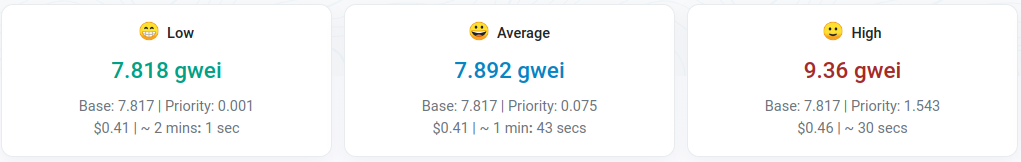
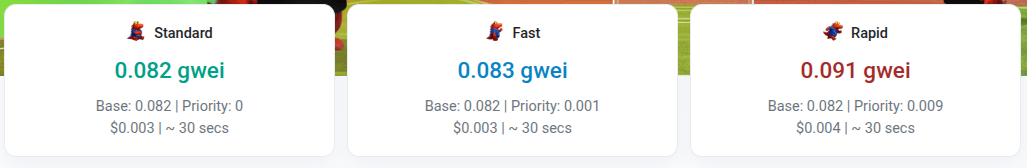
Updated Infura examples

diff --git a/Ethereum/Ethereum.tex b/Ethereum/Ethereum.tex
@@ -215,18 +215,6 @@
 
 \end{frame}
 
-\begin{frame}\frametitle{Remix: deploy an instance of the contract}
-
-  \begin{greenbox}{}
-    Remix will create for us a transaction with the \<0x0> address as destination.
-  \end{greenbox}
-
-  \begin{center}
-    \includegraphics[scale=0.4,clip=false]{pictures/deploy-faucet.png}
-  \end{center}
-
-\end{frame}
-
 \begin{frame}\frametitle{Remix: an instance of \<Faucet> has been deployed}
 
   \begin{center}
@@ -247,7 +235,7 @@
 
 \end{frame}
 
-\begin{frame}\frametitle{Send one Ether to the \<Faucet> through MetaMask}
+\begin{frame}\frametitle{Send some money to the \<Faucet> through MetaMask}
 
   This corresponds to calling the default payable function.
   
@@ -380,6 +368,8 @@ $ \alert{curl https://mainnet.infura.io/v3/05550caa054f4fec80ff...
     
 \end{greenbox}
 
+You can replace \texttt{mainnet} with \texttt{sepolia} to contact the testnet.
+
 \end{frame}
 
 \begin{frame}[fragile]\frametitle{Infura: ask for gas price}
@@ -419,24 +409,26 @@ $ \alert{echo $(({\color{black}0x16c597762}))}
   <modelVersion>4.0.0</modelVersion>
   {\color{violet}{<groupId>it.univr</groupId>
   <artifactId>it.univr.ethereumclient</artifactId>
-  <version>1.0.0</version>
+  <version>1.0.1</version>
   <name>Ethereum Client</name>}}
   {\color{red}{<properties>
     <project.build.sourceEncoding>UTF-8</project.build.sourceEncoding>
-    <maven.compiler.release>17</maven.compiler.release>
+    <maven.compiler.release>21</maven.compiler.release>
   </properties>
   <build>
-    <plugins><plugin>
+    <plugins>
+      <plugin>
         <groupId>org.apache.maven.plugins</groupId>
         <artifactId>maven-compiler-plugin</artifactId>
-        <version>3.11.0</version>
-    </plugin></plugins>
+        <version>3.15.0</version>
+      </plugin>
+    </plugins>
   </build>}}
   {\color{blue}{<dependencies>
     <dependency>
       <groupId>org.web3j</groupId>
       <artifactId>core</artifactId>
-      <version>5.0.0</version>
+      <version>6.0.0</version>
     </dependency>
   </dependencies>}}
 </project>
@@ -696,9 +688,9 @@ Result:    001d3{\color{red}F}1ef827552{\color{red}A}e1114027{\color{red}BD}3{\c
 
   \medskip
 
-  \begin{redbox}{Example: a small transaction requires 21000 units of gas}
+  \begin{redbox}{Example: a very small transaction requires 21000 units of gas}
     \begin{center}
-      $\mathit{fees} = 7.892\times 21000\times 0.000002378$€$=0.39$€
+      $\mathit{fees} = 0.082\times 10^{-9}\times 21000\times 1522$€$=0.00262$€
     \end{center}
   \end{redbox}
   

diff --git a/ethereum-client/src/main/java/it/univr/ethereumclient/SendToFaucet.java b/ethereum-client/src/main/java/it/univr/ethereumclient/SendToFaucet.java
@@ -9,10 +9,11 @@ import org.web3j.protocol.core.methods.response.EthGasPrice;
 
 public class SendToFaucet extends SendTransaction {
 	// the Sepolia faucet
-	private final static String FAUCET = "0xC0f3833B7e7216EEcD9f6bC2c7927A7aA36Ab58B";
+	private final static String FAUCET = "0x15095Ec8FB1Fc9C664b3223459dFF43158ACe7aD";
 
 	public String sendToFaucet() throws InterruptedException, ExecutionException, IOException {
 		EthGasPrice gasPrice =  web3.ethGasPrice().send();
+		System.out.println("gas price: " + gasPrice.getGasPrice());
 		RawTransaction transaction = RawTransaction.createEtherTransaction
 			(transactionCount(),             // nonce
 			gasPrice.getGasPrice(),          // gas price,

diff --git a/ethereum-client/src/main/java/it/univr/ethereumclient/SendTransaction.java b/ethereum-client/src/main/java/it/univr/ethereumclient/SendTransaction.java
@@ -31,8 +31,11 @@ public abstract class SendTransaction {
 	public final String send(RawTransaction transaction) throws InterruptedException, ExecutionException {
 		byte[] signedMessage = TransactionEncoder.signMessage(transaction, credentials);
 		String hexValue = Numeric.toHexString(signedMessage);
+		System.out.println("signed transaction: " + hexValue);
 		EthSendTransaction tr = web3.ethSendRawTransaction(hexValue).sendAsync().get();
 		System.out.println("errors: " + tr.hasError());
+		if (tr.hasError())
+			System.out.println(tr.getError().getMessage());
 		return tr.getTransactionHash();
 	}
 